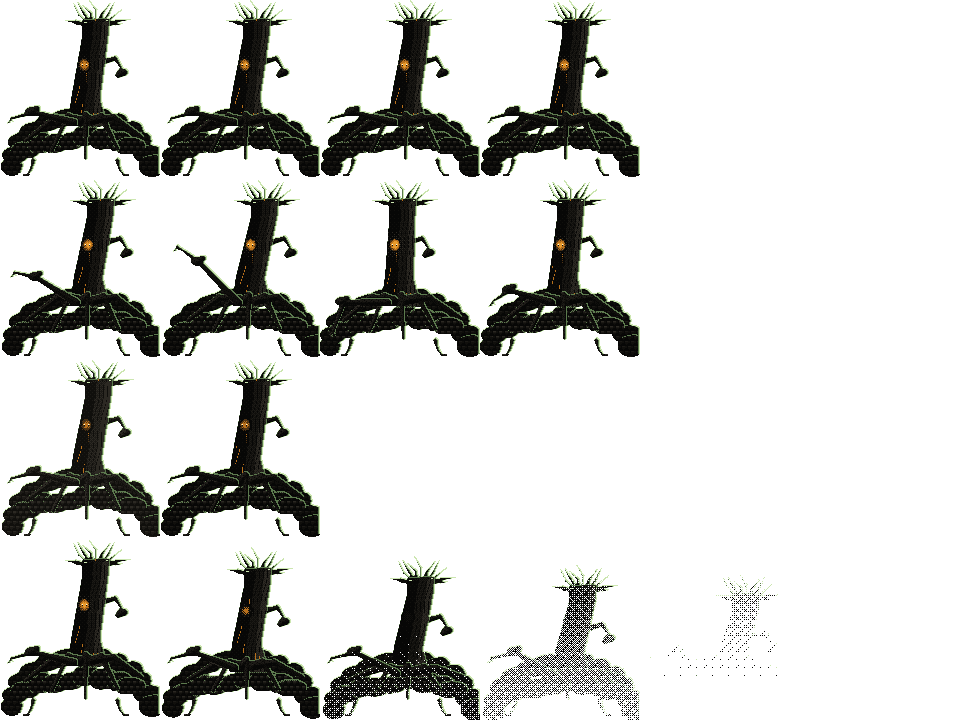
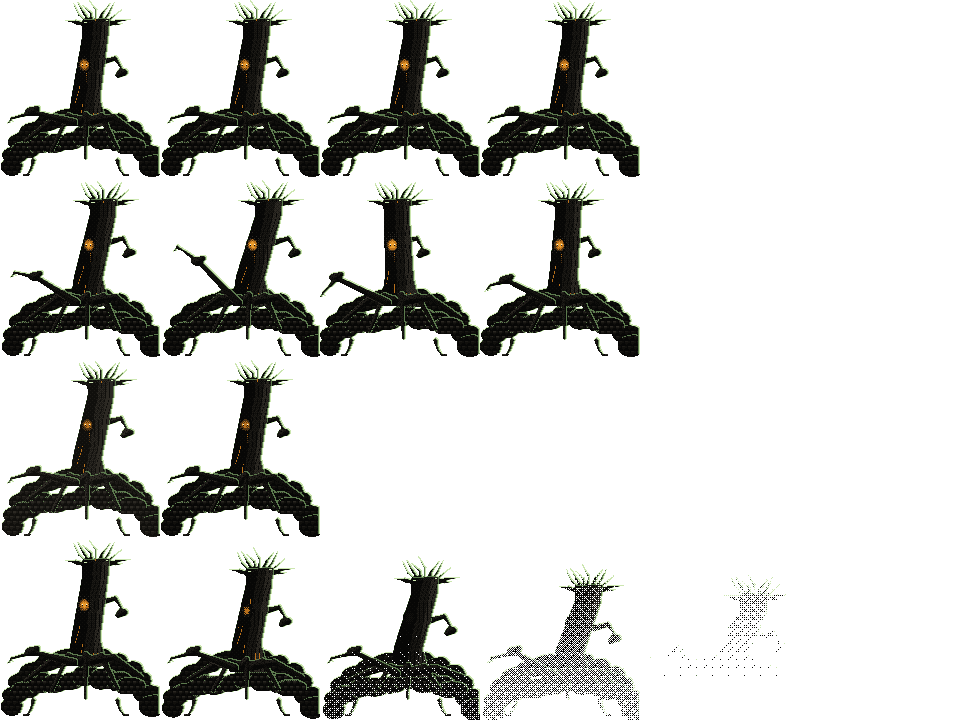
Zugabe: zweite Wächter Akt III (6), Note 4; alle 22 Biome der Akte I–IV haben zwei Wächter
Claude-Session: https://claude.ai/code/session_01TghvEfjLh3w7y1uAeKR46M

diff --git a/tools/sprites/gegner/menge.js b/tools/sprites/gegner/menge.js
@@ -1,0 +1,118 @@
+// Zweiter Wächter Station: Die Menge. Alle, die zur Eröffnung gekommen sind: Herren mit Zylinder und Melone,
+// Damen mit Glockenhut, ein Schirm, der Pressefotograf mit der Blitzpfanne hoch über den Köpfen, vorn einer mit der
+// großen Schere für das Band. Das Band ist nie durchgeschnitten worden. Sie stehen so dicht, dass sie ein Leib
+// geworden sind, und alle sehen zum Tunnel, mit dem Rücken zu dir. Nur einer in der Mitte hat sich umgedreht.
+'use strict';
+const LIB = require('../lib');
+const { h, innenKanten, randKraeftig } = require('./hilfe/w2a3');
+
+// Köpfe der Menge: x, Höhe des Kinns, Größe, Hut (z Zylinder, m Melone, g Glockenhut, 0 ohne), Reihe (0 hinten)
+const KOEPFE = [
+  [58, 92, 0.78, 'z', 0], [82, 88, 0.8, 'g', 0], [104, 86, 0.78, 'm', 0], [128, 90, 0.8, 'z', 0], [146, 98, 0.74, 'g', 0],
+  [46, 104, 0.92, 'm', 1], [70, 100, 0.95, 'z', 1], [94, 99, 0.96, 'u', 1], [118, 101, 0.94, 'g', 1], [140, 108, 0.9, 'm', 1],
+  [30, 116, 1.05, 'g', 2], [58, 114, 1.08, 'm', 2], [86, 113, 1.1, 'z', 2], [112, 115, 1.06, 'g', 2],
+];
+module.exports = {
+  id: 'menge', biom: 'station', zone: 'station', rang: 'waechter', w: 160, h: 180, fuss: [84, 176], kopf: [84, 8], rimBis: 172,
+  varianten: { menge: {} },
+  // Silhouetten-Probe (verworfen): die Menge ohne Schere, Blitz und Schirm, nur Köpfe und Hüte. Schwarz ein
+  // Hügel mit Buckeln (wie Kachelleger und Salzmann im Großen); erst die hochgereckten Arme geben ihr Spitzen.
+  proben: { probe_huegel: { ohneArme: true } },
+  bild(p, v, A) {
+    const { E, C, Pg, glied, r } = A;
+    const f = p.f, W = 160, H = 180, FY = 176;
+    let wog = [0, 1, 1, 0][f % 4], lean = 0, hebe = 0, stoss = 0, fall = 0, blitz = [0.85, 0.9, 1, 0.9][f % 4], dreh = 0;
+    if (!p.idle) wog = 0;
+    if (p.angriff) { lean = [3, 5, -8, -3][f]; hebe = [0.5, 1, 0, 0.2][f]; stoss = [0, 0, 1, 0.4][f]; blitz = [1, 1, 1.5, 1.1][f]; }
+    if (p.treffer) { lean = [3, 1][f]; blitz = 0.6; }
+    if (p.tod) { fall = r(p.q * 30); blitz = Math.max(0, 0.9 - p.q * 2); }
+    const L = r(lean), T = fall;
+    // Leib: alle Mäntel zusammen, ein Hügel bis zum Boden
+    const saumPts = []; for (let i = 0; i <= 10; i++) saumPts.push([156 - i * 15 + L * (i / 10), 156 + T * 0.6 + (i % 2) * 4 + (i % 3)]);
+    const leib = [Pg([...saumPts.slice(0, 1).map(([x]) => [158, 150 + T]), ...saumPts, [4 + L, 150 + T], [8 + L, 132 + T], [20 + L, 118 + T], [44 + L, 112 + T], [70 + L, 106 + T], [100 + L, 104 + T], [128 + L, 108 + T], [150 + L, 114 + T], [158, 130 + T]], null, { rd: 3 })];
+    // Beine unter den Mänteln: Hosen, Strümpfe, Schuhe, dicht an dicht
+    const beine = []; for (let i = 0; i < 12; i++) { const x = 10 + i * 12.6 + L * 0.5 + (h(i, 3) - 0.5) * 3, hint = i % 2, y0 = 152 + T * 0.6;
+      beine.push(C(x, y0, x - 1, FY - 2 - hint, 2.4 - hint * 0.4, 2, hint ? 'dunkel' : null), Pg([[x - 6, FY - 3 - hint], [x + 1, FY - 3 - hint], [x + 1, FY - hint], [x - 7, FY - hint]], hint ? 'dunkel' : null, { rd: 0.6 })); }
+    // Schultern als Wülste
+    const schultern = KOEPFE.map(([x, y, s, , rh]) => E(x + L + 2, y + 13 * s + T + (rh === 2 ? 2 : 0), 12 * s, 6 * s, rh < 2 ? 'dunkel' : null));
+    // Köpfe und Hüte; der in der Mitte vorn hat sich umgedreht (Gesicht zu dir)
+    const koepfe = KOEPFE.map(([x, y, s, hut, rh], i) => {
+      const X = x + L + (rh === 2 ? wog : rh === 1 ? -wog : 0), Y = y + T - (rh === 0 ? wog : 0);
+      const um = i === 12;
+      const kopf = E(X, Y, 6 * s, 7 * s, um ? 'haut' : null);
+      const formen = [kopf];
+      if (hut === 'z') formen.push(Pg([[X - 6 * s, Y - 4 * s], [X - 5 * s, Y - 17 * s], [X + 5 * s, Y - 17 * s], [X + 6 * s, Y - 4 * s]], 'dunkel', { rd: 0.6 }), C(X - 9 * s, Y - 4 * s, X + 9 * s, Y - 4 * s, 1.4 * s, 1.4 * s, 'dunkel'));
+      if (hut === 'm') formen.push(E(X, Y - 6 * s, 6.5 * s, 5 * s, 'dunkel'), C(X - 9 * s, Y - 3 * s, X + 8 * s, Y - 3 * s, 1.3 * s, 1.3 * s, 'dunkel'));
+      if (hut === 'g') formen.push(E(X + 0.5, Y - 4 * s, 7.5 * s, 6 * s, 'dunkel'), C(X - 7 * s, Y + 1 * s, X + 8 * s, Y + 1 * s, 1.6 * s, 1.6 * s, 'dunkel'));
+      return { X, Y, s, hut, rh, um, formen };
+    });
+    // Arme: vorn links die Schere, hinten rechts die Blitzpfanne, in der Mitte der Schirm
+    const arme = [], schere = [], blitzP = [], schirm = [];
+    if (!v.ohneArme && !(p.tod && f >= 3)) {
+      const sh = [32 + L, 122 + T], hd = [24 + L - stoss * 10 + hebe * 4, 60 + T - hebe * 12 + stoss * 30];
+      arme.push(...glied([sh, [20 + L - stoss * 6, 94 + T + stoss * 12], hd], 4, 3, null), E(hd[0], hd[1], 3.6, 3.2, 'haut'));
+      const auf = 0.35 + hebe * 0.3 - stoss * 0.3;
+      for (const sgn of [-1, 1]) { const a = -Math.PI / 2 - 0.15 + sgn * auf - stoss * 1.2; const ex = hd[0] + Math.cos(a) * 22, ey = hd[1] + Math.sin(a) * 22;
+        schere.push(C(hd[0], hd[1] - 1, ex, ey, 2.2, 0.8, null, { pf: 'flat' })); const ga = a + Math.PI; schere.push(E(hd[0] + Math.cos(ga + sgn * 0.6) * 6, hd[1] + Math.sin(ga + sgn * 0.6) * 6, 3, 3, null)); }
+      const bs = [128 + L, 104 + T], bh = [134 + L + wog, 30 + T - hebe * 6];
+      arme.push(...glied([bs, [140 + L, 70 + T], bh], 3.4, 2.6, 'dunkel'), E(bh[0], bh[1] + 1, 3, 3, 'haut'));
+      blitzP.push(C(bh[0], bh[1] - 2, bh[0], bh[1] - 8, 1, 1, null), C(bh[0] - 9, bh[1] - 9, bh[0] + 8, bh[1] - 9, 1.6, 1.6, null));
+      schirm.push(C(96 + L, 96 + T, 100 + L - wog, 40 + T, 1.2, 1.2, null), Pg([[98 + L, 92 + T], [94 + L, 72 + T], [101 + L - wog, 46 + T], [104 + L, 72 + T], [102 + L, 92 + T]], null, { rd: 0.8 }), C(96 + L, 96 + T, 93 + L, 100 + T, 1.2, 1, null));
+    }
+    // Das Band: quer vor der Menge, durchhängend, links von einer Hand gehalten, rechts an einem Ständer
+    const band = [];
+    if (!(p.tod && f >= 4)) { const pts = []; for (let i = 0; i <= 12; i++) { const q = i / 12, x = 6 + q * 150, y = 136 + T * 0.5 + Math.sin(q * Math.PI) * 6 + (p.angriff ? stoss * 4 * Math.sin(q * Math.PI) : 0); pts.push([x + L * (1 - q), y]); }
+      for (let i = 0; i < 12; i++) band.push(C(pts[i][0], pts[i][1], pts[i + 1][0], pts[i + 1][1], 1.8, 1.8, 'haut', { pf: 'flat' }));
+      band.push(C(152, 134 + T * 0.5, 152, FY, 1.4, 1.4, null), E(152, FY - 1, 5, 1.6, null)); }
+    const gruppen = [];
+    const BEINE = gruppen.push({ p: beine, k: 0.5, kante: true }) - 1;
+    const LEIB = gruppen.push({ p: leib, k: 0, kante: true }) - 1;
+    const KG = [];
+    [0, 1, 2].forEach(rh => {
+      gruppen.push({ p: schultern.filter((_, i) => KOEPFE[i][4] === rh), k: 2, kante: true, reihe: rh });
+      if (rh === 1) { if (schirm.length) gruppen.push({ p: schirm, k: 0.5, kante: true, schirm: true }); if (arme.length) gruppen.push({ p: arme.slice(3), k: 1, kante: true }); if (blitzP.length) gruppen.push({ p: blitzP, k: 0, kante: true, blitz: true }); }
+      koepfe.filter(k => k.rh === rh).forEach(k => KG.push(gruppen.push({ p: k.formen, k: 0.6, kante: true, kopf: k }) - 1));
+    });
+    const BAND = gruppen.push({ p: band, k: 0.5, kante: true }) - 1;
+    if (arme.length) { gruppen.push({ p: arme.slice(0, 3), k: 1, kante: true }); gruppen.push({ p: schere, k: 0, kante: true, schere: true }); }
+    gruppen.forEach(g => { g.anker = [L, T]; });
+    const { gid } = LIB.render(W, H, gruppen, LIB.palette('station'), { rimBis: 172 });
+    const augen = [];
+    const details = P => {
+      const B = (x, y) => LIB.bay(x - L, y - T);
+      const ist = (x, y, g) => x >= 0 && y >= 0 && x < W && y < H && gid[y * W + x] === g;
+      // Leib: Mäntel, Knopfreihen, Kragen; nach unten dunkler
+      for (let y = 100; y < H; y++) for (let x = 0; x < W; x++) { if (!ist(x, y, LEIB)) continue; const k = P.get(x, y); if (k < 1 || k > 4) continue;
+        let t = !ist(x, y + 2, LEIB) ? 1 : (B(x, y) < 0.3 - (y - 120) / 200 ? 3 : 2); const m = (x - L) % 26; if (m === 0) t = 1; else if (m === 1 && B(x, y) < 0.5) t = 3; if (m === 13 && y % 9 === 0 && y < 150) t = 'messing'; P.set(x, y, t); }
+      // Köpfe: von hinten das Haar, der Nacken bleich, die Ohren; der Umgedrehte zeigt sein Gesicht mit Augen
+      KG.forEach(gi => { const k = gruppen[gi].kopf;
+        for (let y = r(k.Y - 20 * k.s); y <= r(k.Y + 8 * k.s); y++) for (let x = r(k.X - 10 * k.s); x <= r(k.X + 10 * k.s); x++) {
+          if (!ist(x, y, gi)) continue; const c = P.get(x, y); if (c < 1 || c > 4) continue; const dx = x + 0.5 - k.X, dy = y + 0.5 - k.Y;
+          const imKopf = (dx / (6 * k.s)) ** 2 + (dy / (7 * k.s)) ** 2 < 1;
+          if (!imKopf) { P.set(x, y, (k.hut === 'z' && Math.abs(dy + 6 * k.s) < 1) ? 'email' : c <= 2 ? c : (B(x, y) < 0.3 ? 3 : 2)); continue; }
+          if (k.um) P.set(x, y, dy < -4 * k.s ? 2 : dx < -4 ? 3 : 'blass');
+          else P.set(x, y, dy > 3 * k.s && Math.abs(dx) < 3 * k.s ? (k.rh < 2 ? 3 : 'blass') : (dx > 4.5 * k.s && Math.abs(dy) < 2) ? 3 : (x + y) % 5 ? 1 : 2);
+        }
+        if (k.um && !(p.tod && f >= 1)) { const ex = r(k.X - 3), ey = r(k.Y - 1); P.set(ex, ey, 'kern'); P.set(ex + 4, ey, 'kern'); P.set(ex - 1, ey, 'glut'); P.set(ex + 5, ey, 'glut'); P.set(ex + 1, ey + 4, 2); P.set(ex + 2, ey + 4, 1); P.set(ex + 3, ey + 4, 2); augen.push([ex, ey], [ex + 4, ey]); P.glow(k.X, k.Y - 1, 9, 0.5, 'glutDim', 'k3'); }
+      });
+      // Schere: Stahl, Schneiden hell; Band: Seide, Falten; Schirm: Bespannung mit Rippen
+      gruppen.forEach((g, gi) => {
+        if (g.schere) for (let y = 0; y < H; y++) for (let x = 0; x < W; x++) if (ist(x, y, gi) && P.get(x, y) <= 4) P.set(x, y, (x + y) % 2 ? 'blass' : 3);
+        if (g.schirm) for (let y = 0; y < H; y++) for (let x = 0; x < W; x++) if (ist(x, y, gi) && P.get(x, y) <= 4) P.set(x, y, (x - L) % 3 === 0 ? 1 : 2);
+        if (g.blitz) for (let y = 0; y < H; y++) for (let x = 0; x < W; x++) if (ist(x, y, gi) && P.get(x, y) <= 4) P.set(x, y, 'messing');
+      });
+      for (let y = 120; y < H; y++) for (let x = 0; x < W; x++) if (ist(x, y, BAND) && P.get(x, y) <= 4) P.set(x, y, x > 148 ? 2 : (x + (y >> 1)) % 7 === 0 ? 2 : (!ist(x, y - 1, BAND) ? 'email' : (B(x, y) < 0.4 ? 'email' : 3)));
+      // Blitzpfanne: das Magnesium glimmt, beim Angriff zündet es
+      if (!v.ohneArme && blitz > 0.2 && !(p.tod && f >= 3)) { const bx = r(134 + L + wog), by = r(30 + T - hebe * 6 - 11);
+        // Pulver auf der Pfanne: ein flacher Haufen, glimmend; darüber ein Hauch Rauch in Randlicht
+        for (const [dy, w] of [[0, 7], [-1, 5], [-2, 3]]) for (let k = -w; k <= w; k++) P.set(bx + k, by + 1 + dy, Math.abs(k) < 2 && dy > -2 ? (blitz > 0.95 ? 'kern' : 'glut') : (Math.abs(k) > w - 2 && dy === 0 ? 'glutDim' : 'glut'));
+        P.glow(bx, by + 2, 8, 0.5, 'glutDim', 'k3');
+        if (!p.tod) for (let k = 0; k < 4; k++) { const x = bx - 1 + ((k + f) % 3) - 1, y = by - 4 - k * 2; if (!P.get(x, y)) P.set(x, y, 'r1'); }
+        if (blitz > 1.2) for (let k = 0; k < 14; k++) { const a = k / 14 * Math.PI * 2, rr = 9 + (k % 3) * 3, x = r(bx + Math.cos(a) * rr), y = r(by - 2 + Math.sin(a) * rr * 0.6); if (!P.get(x, y)) P.set(x, y, k % 2 ? 'r2' : 'glutDim'); }
+        augen.push([bx, by]); }
+      innenKanten(P, gid, gruppen, W, H, 'r1');
+      randKraeftig(P, W, H, { bis: 172 });
+    };
+    return { gruppen, details, augen };
+  },
+};

diff --git a/tools/sprites/gegner/griff.js b/tools/sprites/gegner/griff.js
@@ -40,7 +40,15 @@ module.exports = {
     // Finger: fünf oben, zwei Daumen außen; jeder drei Glieder, krumm beugt sie zur Handfläche
     const fingerP = [], kuppen = [];
     const DEF = [[-15, -29, -0.26, 22], [-8, -31, -0.1, 27], [0, -32, 0, 30], [8, -31, 0.1, 27], [15, -29, 0.26, 22], [-20, -12, -1.05, 21], [20, -12, 1.05, 21]];
-    DEF.forEach(([u0, w0, wink, len], i) => {
+    if (v.faust) {
+      // Faust von vorn: oben die Reihe der Knöchel, darunter die eingeschlagenen Finger, die Kuppen nach unten,
+      // quer davor die zwei Daumen von links und rechts (sie greifen ineinander)
+      for (let i = 0; i < 5; i++) { const u = -14 + i * 7, kn = rot(u, -30 + Math.abs(i - 2) * 1.2 - krumm * 0), mi = rot(u, -21), tip = rot(u + 0.5, -13);
+        const g = [E(kn[0], kn[1], 4.2 * S, 4.6 * S, 'haut'), C(kn[0], kn[1], mi[0], mi[1], 3.8 * S, 3.6 * S, 'haut'), C(mi[0], mi[1], tip[0], tip[1], 3.4 * S, 3 * S, 'haut')];
+        fingerP.push({ i, g, pts: [kn, kn, mi, tip], daumen: false, faust: true }); kuppen.push(tip); }
+      for (const [i, sg] of [[5, -1], [6, 1]]) { const a0 = rot(sg * 20, -8), a1 = rot(sg * 10, -9), a2 = rot(sg * 1, -7);
+        fingerP.push({ i, g: glied([a0, a1, a2], 4.4 * S, 3.2 * S, 'haut'), pts: [a0, a0, a1, a2], daumen: false, vorn: true }); kuppen.push(a2); }
+    } else DEF.forEach(([u0, w0, wink, len], i) => {
       const daumen = i >= 5, seite = u0 < 0 ? -1 : 1;
       let [px, py] = rot(u0, w0); let ang = ua + wink + (daumen ? 0 : (h(i, 1) - 0.5) * 0.12); const pts = [[px, py]];
       for (let k = 0; k < 3; k++) {
@@ -64,7 +72,8 @@ module.exports = {
     const FING = [];
     fingerP.filter(x => x.daumen).forEach(x => FING.push(gruppen.push({ p: x.g, k: 1, kante: true, finger: x }) - 1));
     const HAND = gruppen.push({ p: hand, k: 0, kante: true }) - 1;
-    fingerP.filter(x => !x.daumen).forEach(x => FING.push(gruppen.push({ p: x.g, k: 1, kante: true, finger: x }) - 1));
+    fingerP.filter(x => !x.daumen && !x.vorn).forEach(x => FING.push(gruppen.push({ p: x.g, k: 1, kante: true, finger: x }) - 1));
+    fingerP.filter(x => x.vorn).forEach(x => FING.push(gruppen.push({ p: x.g, k: 1, kante: true, finger: x }) - 1));
     gruppen.forEach((g, i) => { g.anker = i <= WASSER ? [0, 0] : [0, sink]; });
     const { gid } = LIB.render(W, H, gruppen, LIB.palette('gezeitenwerk_bronze'), { rimBis: 168 });
     const augen = [];
@@ -88,7 +97,9 @@ module.exports = {
       FING.forEach(gi => { const fp = gruppen[gi].finger;
         for (let y = 0; y < H; y++) for (let x = 0; x < W; x++) { if (!ist(x, y, gi)) continue; const k = P.get(x, y); if (k < 1 || k > 4) continue;
           let nah = 1e9, seg = 0; for (let s2 = 1; s2 < 3; s2++) { const d = Math.hypot(x - fp.pts[s2][0], y - fp.pts[s2][1]); if (d < nah) { nah = d; seg = s2; } }
-          P.set(x, y, nah < 1.6 ? 1 : (B(x, y) < 0.35 ? 3 : 2)); } });
+          if (fp.faust || fp.vorn) { const l = gid[y * W + x - 1], o = gid[(y - 1) * W + x]; const naht = (l !== gi && FING.includes(l)) || (o !== gi && FING.includes(o) && fp.vorn);
+            P.set(x, y, naht ? 1 : (o !== gi ? 4 : (B(x, y) < 0.3 ? 3 : 2))); }
+          else P.set(x, y, nah < 1.6 ? 1 : (B(x, y) < 0.35 ? 3 : 2)); } });
       kuppen.forEach(([x, y], i) => { if (glueh > 0.25 && !(p.tod && f >= 2)) { P.set(x, y, i === 2 || i === 5 ? 'kern' : 'glut'); P.set(x + 1, y, 'glutDim'); if (i === 2 || i === 5) augen.push([r(x), r(y)]); } });
       if (glueh > 0.3) { const [cx, cy] = rot(-2, -16); P.glow(cx, cy, 14 * glueh, 0.45, 'glutDim', 'k3'); P.set(cx, cy, glueh > 0.9 ? 'kern' : 'glut'); augen.push([r(cx), r(cy)]); }
       // Unterarm: Sehnen, Grünspanflecken, nass am Wasser

diff --git a/tools/sprites/gegner/kronengaenger.js b/tools/sprites/gegner/kronengaenger.js
@@ -27,7 +27,7 @@ function kuppel(p, v, A) {
   const zehen = [];
   for (const [x, d] of [[34, -1], [118, 1]]) { const s0 = [x + LX, 160], e = [x + LX + d * 6, FY]; zehen.push(...glied([s0, [x + LX + d * 2, 168], e], 2.6, 1.1, null), C(e[0], e[1], e[0] + d * 5, e[1], 1, 0.7, null)); }
   // Stamm: steht auf der Kuppel, leicht schräg; oben die Abrissstelle mit Wurzeln
-  const gx = 86 + lean * 0.5 + wipp, gy = 118 + fall * 0.6, sx = 96 + lean + wipp * 2 + sw, sy = 22 + fall;
+  const gx = 86 + lean * 0.5 + wipp, gy = 118 + fall * 0.6, sx = 96 + lean * 1.8 + wipp * 2 + sw, sy = 22 + fall;
   const stamm = [Pg([[gx - 16, gy + 6], [gx - 12, gy - 22], [sx - 11, sy + 12], [sx - 12, sy], [sx + 12, sy - 2], [sx + 11, sy + 14], [gx + 13, gy - 20], [gx + 19, gy + 6]], null, { rd: 2.5 })];
   const wurzeln = [];
   for (let i = 0; i < 11; i++) {
@@ -44,7 +44,7 @@ function kuppel(p, v, A) {
     aeste.push(...glied([[gx + dir * 6, gy + 2], [mx, my], [ex + LX, ey]], w, 2, null));
   }
   // Greifast vorn links: holt aus (hebe) und schlägt nach vorn (stoss)
-  const g0 = [gx - 12, gy + 4], gk = [34 + LX - stoss * 8 + hebe * 4, 112 - hebe * 30 + stoss * 10], ge = [12 + stoss * 2 + hebe * 6, 118 - hebe * 52 + stoss * 32];
+  const g0 = [gx - 12, gy + 4], gk = [34 + LX - stoss * 14 + hebe * 4, 112 - hebe * 30 - stoss * 14], ge = [12 - stoss * 8 + hebe * 6, 118 - hebe * 52 - stoss * 6];
   const greif = [...glied([g0, gk, ge], 4.4, 1.4, null)]; for (let j = 0; j < 3; j++) greif.push(C(ge[0], ge[1], ge[0] - 5 + j * 3, ge[1] + 6 - j, 1, 0.6, null));
   greif.push(E(gk[0] - 2, gk[1] - 1, 7, 5, null), E(gk[0] + 3, gk[1] - 4, 4.5, 3.5, null));
   // Harzklumpen im Stamm: ein Astloch, darin Harz mit zwei Augen

diff --git a/docs/auftrag-2/biome/salz-waechter2.md b/docs/auftrag-2/biome/salz-waechter2.md
@@ -1,0 +1,28 @@
+# Salzstollen (`salz`) · Zweiter Wächter: Die Eingesalzene (`eingesalzene`)
+
+Zugabe zu Auftrag 2. Daten im Ergänzungspaket `prototype/data/biome/salz_plus.json` (`waechter_dazu`, Gegner unter `foes`), Sprite `tools/sprites/gegner/eingesalzene.js` (Varianten `eingesalzene` und `eingesalzene_p2`, Hilfen in `tools/sprites/gegner/hilfe/w2a3.js`), Zone `tools/sprites/zonen/salz_sole.json`. Der Seed wählt je Run zwischen dem Wurm im Salz und der Eingesalzenen; die Wächter-Szene bleibt dieselbe. Alles per Skript gezeichnet (`quelle: skript`).
+
+## Idee
+
+- **Wer:** eine Salzsiederin aus der Zeit, bevor die Römer kamen. Sie hat sich in die Siedepfanne gesetzt, damit sie bleibt, und sie ist geblieben.
+- **Das falsche Detail:** Das Salz ist an ihr in Würfeln gewachsen, alle gleich glatt und gleich rechtwinklig, als Treppe hinter ihr bis unter die Decke. Unter der Pfanne brennt das Siedefeuer bis heute, und aus ihrer offenen Hand rieselt Salz, das nie weniger wird.
+- **Silhouette:** eine kniende Frau in einer flachen Pfanne, der Arm weit nach vorn, hinter ihr eine Treppe aus Würfeln, die nach rechts hinauf bis an den oberen Rand steigt; auf dem Kopf ein gekippter Würfel als Kapuze.
+- **Proben:** sie als Salzsäule, die Würfel nur senkrecht über ihr (schwarz eine Säule mit Buckeln, nah an Gewicht und Kreuzgangwächter und am bekannten Bild). Genommen: die Treppe.
+- **Anders als der Wurm:** Der Wurm ist ein Bogen, der aus dem Boden kommt, schlägt einfach hart und wechselt jeden Zug die Schwachstelle. Die Eingesalzene **stört die Hand**: Kniff `einfrieren` (jeden Zug ist eine Karte eingesalzen und unspielbar), Besonderheit `phasen` bei 50 %: Die Kruste springt, die Fugen zwischen den Würfeln glühen, abgeplatzte Würfel liegen in der Pfanne (`eingesalzene_p2`), die Schwachstelle wechselt von Wasser auf Blut und das Muster wird härter. Erst Geduld mit Blockrunden, dann ein Wettlauf.
+
+## Kampf
+
+- **Werte:** 96 Leben, Schwachstelle **Wasser** (Salz löst sich), in Phase 2 **Blut** (darunter ist sie noch warm). Muster Block 14, 13, 3 × 5, Block 12, 18; Phase 2: 14, 3 × 6, Stärke +3, 20.
+- **Stimme:** `opfernde`. **Beute:** Der Würfel aus dem Berg (`salzwuerfel`).
+- **Licht:** eigene Zone `salz_sole`: die Körperstufen der Salzstollen, Randlicht **kalt türkis** (Sole, ein Ton, den die sepiafarbene Szene nicht hat). Die Deckflächen der Würfel fangen das Gegenlicht von oben in derselben Stufe. Innere Lichter: die Augen hinter dem Salz und das Siedefeuer zwischen den Steinen, in Phase 2 die glühenden Fugen.
+- **biom-test (20 Seeds):** Wurm 17/20 (85 %), Eingesalzene 16/20 (80 %). Im Mittel nimmt sie dem Autospieler 12 Leben je Kampf (Wurm 3), einmal gewinnt sie.
+
+## Noten (Bewertungsbogen 06-ki-bilder.md Abschnitt 5)
+
+| Bild | S | L | P | K | B | Sp | Gesamt | Begründung |
+|---|---|---|---|---|---|---|---|---|
+| Die Eingesalzene (`eingesalzene`) | 5 | 4 | 4 | 4 | 5 | 5 | **4** | Die Würfeltreppe ist eine Form, die es im Spiel nicht gibt, und liest sich als Kristall, nicht als Mauer (jeder Würfel mit Deckfläche, Licht- und Schattenseite). Schwächen: Das Dither der Deckflächen ist im Großen etwas unruhig, das Gesicht unter dem Würfel ist klein und dunkel. |
+| Phase 2 (`eingesalzene_p2`) | 4 | 4 | 4 | 5 | 5 | 5 | **4** | Die glühenden Fugen zeigen sofort, dass die Kruste gesprungen ist; die Treppe ist niedriger, Würfel liegen in der Pfanne. Die Silhouette ändert sich nur oben. |
+| Im Spiel (Wächter-Szene) | | | | | | 5 | **4** | Dunkel vor der hellen Salzhalle, das türkise Randlicht trennt sie von den weißen Säulen; die Siedeglut unten ist der wärmste Punkt der Szene. |
+
+Bilder: [Spiel](../bilder/Zugabe/waechter2/salz-eingesalzene.png), [Spiel Phase 2](../bilder/Zugabe/waechter2/salz-eingesalzene-phase2.png), [Kontaktbogen](../bilder/Zugabe/waechter2/bogen-a3.png), [Silhouetten gegen alle](../bilder/Zugabe/waechter2/silhouetten-gegen-alle-a3.png).

diff --git a/docs/auftrag-2/biome/stadt-waechter2.md b/docs/auftrag-2/biome/stadt-waechter2.md
@@ -1,0 +1,27 @@
+# Namenlose Stadt (`stadt`) · Zweiter Wächter: Der Getragene (`getragene`)
+
+Zugabe zu Auftrag 2. Daten im Ergänzungspaket `prototype/data/biome/stadt_plus.json` (`waechter_dazu`, Gegner unter `foes`), Sprite `tools/sprites/gegner/getragene.js` (Hilfen in `tools/sprites/gegner/hilfe/w2a3.js`), Zone `tools/sprites/zonen/stadt_phosphor.json`. Der Seed wählt je Run zwischen dem Wind, der Gestalt hat, und dem Getragenen; die Wächter-Szene bleibt dieselbe. Alles per Skript gezeichnet (`quelle: skript`).
+
+## Idee
+
+- **Wer:** einer der Erbauer, der nicht gestorben ist. Durch die niedrigen Gänge zieht noch sein Leichenzug: vier Träger in Binden, mit den langen flachen Schädeln der Erbauer, tragen die Lade auf zwei Stangen.
+- **Das falsche Detail:** Die Träger sind tot, der in der Lade ist es nicht. Der Deckel steht einen Spalt offen, darin ist Licht, und aus dem Spalt kommen Finger, zu viele und zu lang, und haken sich über den Rand. Die Stirnseite der Lade ist sein Gesicht aus Stein, mit Schnauze, und die Augen darin leuchten.
+- **Silhouette:** ein langer Kasten mit Satteldeckel hoch auf zwei Stangen, vorn der Steinkopf mit Schnauze, darunter acht dünne, gebeugte Beine im Schritt; beim Angriff klappt der Deckel auf und ein Arm greift heraus.
+- **Proben:** die Lade allein, aufrecht wie ein Sarg (schwarz ein Brett mit Kopf, zu nah an Relief und Bote). Genommen: der Zug mit Trägern.
+- **Anders als der Wind:** Die Windgestalt ist eine hohle, dünne Gestalt, die allein kämpft und nur zuschlägt. Der Getragene **ruft und schützt**: Besonderheit `ruft` (alle 3 Züge löst sich ein Träger aus dem Zug: eine Erbauer-Mumie kommt dazu), Kniff `schuetzer` (die Träger decken jeden, der neben der Lade geht, mit 5 Block). Gegen ihn braucht man Flächenschaden oder eine klare Zielwahl.
+
+## Kampf
+
+- **Werte:** 76 Leben, Schwachstelle **Feuer** (Binden und trockenes Holz). Muster 11, Block 10, 3 × 5, Stärke +2, 16.
+- **Stimme:** `chor` (ein Zug, viele Kehlen). **Beute:** Das schräge Lot (`schraeges_lot`).
+- **Licht:** eigene Zone `stadt_phosphor`: die Körperstufen der Stadt, Randlicht **phosphorgrün** (das Licht aus dem Abgrund hinter dem Messingtor; die rote Szene hat es nirgends). Innere Lichter: der Spalt unter dem Deckel (gelb), die Augen im Steinkopf, ein Funke in jedem Trägerschädel. Zusatzfarbe `binde` für die Wicklungen.
+- **biom-test (20 Seeds):** Wind 14/20 (70 %), Getragener 14/20 (70 %). Die Niederlagen fallen in beiden Fällen in den normalen Kämpfen davor; im Wächterkampf verliert der Autospieler im Mittel 2–3 Leben (Wind 2), braucht aber 5 statt 2–3 Züge.
+
+## Noten (Bewertungsbogen 06-ki-bilder.md Abschnitt 5)
+
+| Bild | S | L | P | K | B | Sp | Gesamt | Begründung |
+|---|---|---|---|---|---|---|---|---|
+| Der Getragene (`getragene`) | 4 | 4 | 4 | 4 | 4 | 5 | **4** | Kasten auf Trägerbeinen mit Steinschnauze ist eigen; die Finger im Lichtspalt sind das stärkste Detail. Schwächen: Schwarz verwandt mit der Neununddreißigsten (beides Masse auf vielen Beinen, aber dort kurz und mit Feldzeichen), die Schädel der Träger sind klein, die hinteren Träger sind dunkle Pfosten. |
+| Im Spiel (Wächter-Szene) | | | | | | 5 | **4** | Das grüne Randlicht steht klar vor dem roten Fries; der Zug füllt die Mitte, ohne die Kreisform hinten zu verdecken. |
+
+Bilder: [Spiel](../bilder/Zugabe/waechter2/stadt-getragene.png), [Kontaktbogen](../bilder/Zugabe/waechter2/bogen-a3.png), [Silhouetten gegen alle](../bilder/Zugabe/waechter2/silhouetten-gegen-alle-a3.png).

diff --git a/docs/auftrag-2/fortschritt.md b/docs/auftrag-2/fortschritt.md
@@ -16,7 +16,7 @@ Wird vom Agenten geführt. Neueste Einträge oben in jedem Abschnitt.
 | M7 Biome Akt III bis V | fertig | Wald, Gezeitenwerk (Akt III), Walkathedrale, Glasmeer (Akt IV), Ufer unten, Pforte neu, Finale neu (Akt V); neue Gegner Salz, Stadt, Eis; alle Noten 4. Kern: Kniffe teurer/kopie/takt/voraus/verborgen, Pendel, Tausch-/Leih-/Spiegel-Krämer, Vorgänger, Ergänzungspakete |
 | M8 Ereignisse und Balance | fertig | ≥5 Ereignisse je Biom, 15 biomübergreifende, Test aller Wahlen; Builds 44–72 % (Ø 59 %), generischer Bot 65 %, kein Akt über 35 % der Niederlagen; Kampf Ø 4,1–4,5 Züge |
 | M9 Abschluss | fertig | Geklickter Run (40 Stationen), Galerie und Artboard erweitert, Bericht unten |
-| Zugabe | läuft | Punkte 1–4 der Liste erledigt, dazu drei weitere Biome: Waisenhaus am Deich (II), Funkstation am Pol (IV), Die Waage am Grund (V, mit Elite und Finale-Szene). Dazu die Station, die nie eröffnet wurde (III). Jetzt 25 Biome, alle Note 4; alle 157 Ereignisse mit Bild; 8 Builds 40–62 %; Akt V mit Ereignis-Knoten |
+| Zugabe | läuft | Punkte 1–4 der Liste erledigt, dazu drei weitere Biome: Waisenhaus am Deich (II), Funkstation am Pol (IV), Die Waage am Grund (V, mit Elite und Finale-Szene). Dazu die Station, die nie eröffnet wurde (III). Jetzt 25 Biome, alle Note 4, jedes Biom der Akte I–IV mit zwei Wächtern (22 neue Wächter); alle 157 Ereignisse mit Bild; 8 Builds 40–62 %; Akt V mit Ereignis-Knoten |
 
 ## Einträge je Meilenstein
 
@@ -219,6 +219,7 @@ Allgemeiner Autospieler 30 Seeds: 47 %. **Korrigierte Ausreißer:** Brackwasser 
 | Hintergrund Funkstation (Mast, Funkraum, Eisloch, Senderaum) + 6 Ereignisbilder | Funkstation | 4 (Funkraum jetzt karger, dafür ruhig hinter den Gegnern) | [Zugabe](bilder/Zugabe/funkstation/hintergrund-varianten.png) |
 | Zweite Wächter Akt I: Galionsfigur (Hafen), Moorpferd (Moor), Der Fang (Fabrik), Badekarren (Kurhaus), Oberkellner (Nachtzug), Nebelhorn (Leuchtturm) (neu) | Akt I | 4 (selbst geprüft; stark: Nebelhorn, Badekarren, Moorpferd; knapp: Fang, dunkler Leib) | [Zugabe](bilder/Zugabe/waechter2/bogen-a1.png) |
 | Zweite Wächter Akt II: Der Prediger (Kapelle), Adler vom Lesepult (Kloster), Der Ungeheilte (Grotte), Das Tretrad (Glockengießerei), Fotograf von 1913 (Waisenhaus) (neu) | Akt II | 4 (stark: Tretrad vor dem Ofen, Ungeheilter; knapp: Korb des Predigers dunkel) | [Zugabe](bilder/Zugabe/waechter2/bogen-a2.png) |
+| Zweite Wächter Akt III: Die Eingesalzene (Salz), Der Getragene (Stadt), Der Kronengänger (Wald), Der Griff (Gezeitenwerk), Die Neununddreißigste (Ziegelgruben), Die Menge (Station) (neu) | Akt III | 4 (stark: Griff, Menge, Eingesalzene; knapp: Kronengänger, die Idee „geht auf der Krone“ liest sich nicht sofort) | [Zugabe](bilder/Zugabe/waechter2/bogen-a3.png) |
 | Zweite Wächter Akt IV: Die Welle (Eis), Das Kalb (Walkathedrale), Lichtqualle (Glasmeer), Mann im Mond (Mond), Kastendrachen (Funkstation) (neu) | Akt IV | 4 (stark: Welle, Kalb, Qualle; knapp: Kastendrachen vor dem Fenster) | [Zugabe](bilder/Zugabe/waechter2/bogen-a4.png) |
 | Station: Sperrenschaffner, Wartende, Streckengänger, Kachelleger (neu) | Station | 4 (rosa-rotes Randlicht vor kalten Kacheln, im Kampf klar) | [Zugabe](bilder/Zugabe/station/im-spiel-kampf-alle-vier-v1.png) |
 | Der Zug, der einfährt, zwei Phasen, Türen schließen = unverwundbar (Wächter, neu) | Station | 4 (vor ruhigem Tunnellicht; Phase 2 mit Armen aus den Türen stark) | [Zugabe](bilder/Zugabe/station/im-spiel-waechter-p2.png) |

diff --git a/docs/auftrag-2/biome/ziegelgruben.md b/docs/auftrag-2/biome/ziegelgruben.md
@@ -177,3 +177,20 @@ Nichts unter 4. Überarbeitet wurden unterwegs: Ziegelträger (Stapel zuerst aus
 - Variante b der Normalen unterscheidet sich je nur in einem Teil (Probe, Stapelform, Block, Schwanz).
 - Die Lehmgrube bleibt die schwächste Szene; der Ringofen braucht über 400 ms zum Aufbau (einmal pro Knoten).
 - Biom-Test 82 % statt Ziel 60–80 %, der Wächter hat noch keinen Run beendet.
+
+## Zweiter Wächter: Die Neununddreißigste (`neununddreissigste`)
+
+Zugabe. Eingetragen als `biom.waechter_alt` in `prototype/data/biome/ziegelgruben.json`; der Seed wählt je Run zwischen Brennofen und Neununddreißigster, die Szene vor der Feuertür bleibt dieselbe. Sprite `tools/sprites/gegner/neununddreissigste.js`, Zone `tools/sprites/zonen/ziegelgruben_lehm.json`.
+
+- **Idee:** Die Legion, die es nie gab, selbst. Sie steht in der Schildkröte: oben die Dachschilde schräg übereinander, an der Seite eine Wand aus hohen Schilden, unten nur Füße in Sandalen aus Lehm. **Das falsche Detail:** Die Schilde sind gebrannte Ziegel mit dem Stempel der Legion, und in jedem ist derselbe Fingerabdruck; durch den Spalt zwischen Dach und Wand sehen Augen, und Lanzen kommen heraus. Oben ragt das Feldzeichen mit Scheiben, an der Spitze ein kleiner Ofen, in dem die Glut nicht ausgeht. **Silhouette:** eine hohe Kuppel aus Schilden auf vielen kurzen Füßen, oben senkrecht die Stange mit dem Ofen, vorn drei Lanzen. **Proben:** als flacher, langer Kasten auf Beinen (schwarz zu nah am Getragenen und am Lehmhund), genommen: hohe Kuppel mit Feldzeichen.
+- **Anders als der Brennofen:** Der Brennofen ist ein Ofen, der Brand frisst (`loeschen`) und in Phase 2 hart zuschlägt. Die Neununddreißigste **verteidigt und ruft**: Kniff `dornen 2` (Lanzen zwischen den Schilden), ein Musterschritt `unverw` (Schildkröte: in diesem Zug nicht zu treffen, die Bühne zeigt es), Besonderheit `ruft` (alle 4 Züge tritt ein Stempel aus dem Glied). Mehrfachtreffer werden teuer; große Einzelschläge in den offenen Zügen.
+- **Werte:** 80 Leben, Schwachstelle **Eisen**, Muster 3 × 4, Block 14 (unverwundbar), 12, Stärke +2, 4 × 3. Stimme `chor`, Beute Legionsstempel.
+- **Licht:** Randlicht **kühles Lehmblau** (`ziegelgruben_lehm`), ein Ton, den die rote Ofenhalle nicht hat. Innere Lichter: der kleine Ofen im Feldzeichen, die Augen im Schildspalt; der Stempel jedes Wandschilds in Ziegelrot.
+- **biom-test (20 Seeds):** Brennofen 17/20 (85 %), Neununddreißigste 15/20 (75 %); sie gewinnt dreimal (Brennofen einmal), im Mittel 25 Leben je Kampf. Abgestimmt über Dornen und Ruftakt: Dornen 3 oder Ruf alle 3 Züge ergaben 60–65 %, Ruf alle 4 mit Dornen 2 ergibt 75 %.
+
+| Bild | S | L | P | K | B | Sp | Gesamt | Begründung |
+|---|---|---|---|---|---|---|---|---|
+| Die Neununddreißigste (`neununddreissigste`) | 4 | 4 | 4 | 4 | 5 | 5 | **4** | Kuppel aus Schilden, Augen im Spalt, Feldzeichen mit glühendem Ofen: die Schildkröte liest sich. Schwächen: Die Dachschilde sind ein dichtes Muster, die Legionäre zeigen sich nur als Füße und Augen, schwarz verwandt mit dem Getragenen. |
+| Im Spiel (vor der Feuertür) | | | | | | 5 | **4** | Das blaue Randlicht hebt die dunkle Kuppel vom grauen Torbogen und den roten Ziegeln ab; das Feldzeichen ragt in die helle Öffnung. |
+
+Bilder: [Spiel](../bilder/Zugabe/waechter2/ziegelgruben-neununddreissigste.png), [Kontaktbogen](../bilder/Zugabe/waechter2/bogen-a3.png).

diff --git a/docs/auftrag-2/biome/gezeitenwerk.md b/docs/auftrag-2/biome/gezeitenwerk.md
@@ -181,3 +181,21 @@ Nichts unter 4. Überarbeitet wurden unterwegs: Ölerin (Block mit Stock → sch
 - Der Kern zeigt die Absicht „lädt“ (Ansage des Gewichts) als „↑ +0“; das betrifft alle `ansage`-Gegner, nicht nur dieses Paket.
 - Das Hauptrad rückt im Hintergrund nicht sichtbar weiter (die Szene ist bis auf Wasser, Licht und Partikel statisch).
 - Item-Icons sind Platzhalter.
+
+## Zweiter Wächter: Der Griff (`griff`)
+
+Zugabe. Eingetragen als `biom.waechter_alt` in `prototype/data/biome/gezeitenwerk.json`; der Seed wählt je Run zwischen Regulator und Griff, die Szene bleibt dieselbe. Sprite `tools/sprites/gegner/griff.js` (Varianten `griff`, `griff_p2`), Zone `tools/sprites/zonen/gezeitenwerk_bronze.json`.
+
+- **Idee:** Die Hand, für die die Maschine gebaut ist. Sie steigt aus einem Kanal, der Unterarm verschwindet im Wasser, und niemand weiß, wie lang er ist. **Das falsche Detail:** sieben Finger, fünf oben und zwei Daumen, links und rechts, gleich lang; in den Kuppen und in den Linien der Handfläche leuchtendes Öl, wie in den Abdrücken an der Maschine. Um das Gelenk eine Bronzemanschette mit sieben Zapfen. Kein Gesicht (Zeitschicht vor dem Menschen). **Silhouette:** eine offene, aufgerichtete Hand mit sieben Fingern über einem flachen Becken. **Proben:** die Hand flach auf den Fingern laufend (schwarz eine Spinne, wie Netzflickerin und Zahnradwärter), genommen: aufrecht.
+- **Anders als der Regulator:** Der Regulator pendelt, wächst und wechselt die Schwachstelle mit dem Takt. Der Griff **macht nach**: Kniff `kopie` (deine zuletzt gespielte Karte trifft dich oder schützt ihn), Besonderheit `phasen` bei 50 %: Die Hand schließt sich zur Faust (`griff_p2`), Schwachstelle Blut → Eisen, harte Schläge. Wer große Angriffe spielt, bekommt sie zurück; Block und kleine Karten vor der Faust, dann schnell.
+- **Werte:** 96 Leben, Muster 10, Block 12, 3 × 4, 14, Stärke +2; Phase 2: 18, 3 × 6, Block 10, 24. Stimme `lotse`, Beute Siebenfinger-Schlüssel.
+- **Licht:** Randlicht **blanke Bronze** (`gezeitenwerk_bronze`), das einzige Warme der grünen Maschine: Wo die Hand greift, ist die Bronze blank. Innere Lichter: Öl in Kuppen und Handlinien, der Glanz in der Handmitte.
+- **biom-test (20 Seeds):** Regulator 19/20 (95 %), Griff 18/20 (90 %); der Griff nimmt im Mittel 20 Leben je Kampf (Regulator 4) und gewinnt zweimal. Der Akt ist für den Autospieler leicht, weil die normalen Kämpfe kaum Leben kosten.
+
+| Bild | S | L | P | K | B | Sp | Gesamt | Begründung |
+|---|---|---|---|---|---|---|---|---|
+| Der Griff (`griff`) | 5 | 5 | 4 | 5 | 5 | 5 | **4** | Die offene Hand mit sieben Fingern liest man in einer Sekunde, das Bronze-Randlicht trennt sie vom Grün, die glühenden Linien sind das falsche Detail. Schwäche: Die Grünspanflecken am Unterarm sind etwas fleckig. |
+| Phase 2 (`griff_p2`) | 4 | 4 | 4 | 4 | 5 | 5 | **4** | Faust von vorn mit Knöchelreihe und den zwei Daumen quer davor; erste Fassung (gekrümmte Finger) las sich als Klumpen und wurde neu gebaut. Die Fugen zwischen den Fingern sind fein. |
+| Im Spiel | | | | | | 5 | **4** | Steht vor dem hellen Zulauf in der Mitte der Szene, groß und klar. |
+
+Bilder: [Spiel](../bilder/Zugabe/waechter2/gezeitenwerk-griff.png), [Spiel Phase 2](../bilder/Zugabe/waechter2/gezeitenwerk-griff-phase2.png), [Kontaktbogen](../bilder/Zugabe/waechter2/bogen-a3.png).

diff --git a/docs/auftrag-2/biome/wald.md b/docs/auftrag-2/biome/wald.md
@@ -176,3 +176,20 @@ Nichts unter 4. Überarbeitet wurden unterwegs: Holzfäller (Nackenschirm las si
 - Die Absicht des Holzfällers während des Ladens zeigt der Kern als „+0“.
 - Item-Icons sind Platzhalter.
 - Viele dünne Elemente (Geweihstränge, Wurzeln, Rippen) tragen volles Randlicht; das Bild ist dadurch etwas unruhiger als bei den Favoriten.
+
+## Zweiter Wächter: Der Kronengänger (`kronengaenger`)
+
+Zugabe. Eingetragen als `biom.waechter_alt` in `prototype/data/biome/wald.json`; der Seed wählt je Run zwischen Wurzelstock und Kronengänger, die Szene im Wurzelgewölbe bleibt dieselbe. Sprite `tools/sprites/gegner/kronengaenger.js` (Hilfen `hilfe/w2a3.js`), Zone `tools/sprites/zonen/wald_tiefe.json`.
+
+- **Idee:** Ein Baum aus diesem Wald, dessen Krone den Boden erreicht hat. Er hat sich oben von der Decke gerissen (die Wurzeln stehen zerfetzt in die Luft, an der Abrissstelle die Jahresringe, der äußere hell) und geht jetzt auf seiner Krone: eine Kuppel aus Steinlaub, über die die Hauptäste vom Stamm nach unten laufen, vorn ein Ast, der greift. **Das falsche Detail:** In einem Astloch sitzt ein Klumpen Harz, und in dem Harz sind zwei Augen eingeschlossen, die offen sind. **Silhouette:** ein schräger Stamm mit Wurzelkranz oben auf einer breiten, buckligen Laubkuppel, ein Greifast vorn links. **Proben:** der Stamm auf sieben Ästen mit Knien (schwarz ein Weberknecht mit Turm, man sah keinen Baum mehr), genommen: die Kuppel. 
+- **Anders als der Wurzelstock:** Der Wurzelstock hängt, wächst jeden Zug (`waechst`) und schlägt mit jeder Phase härter. Der Kronengänger steht, **verklebt die Hand** (Kniff `verstopfen`: jeden Zug eine unspielbare Karte „Harztropfen“ mit dem Harzklumpen-Bild in der Hand) und schlägt mit vielen kleinen Treffern (4 × 6, 6 × 4). Besonderheit `schwach_wechsel` Feuer ↔ Eisen: einmal trifft man Holz, einmal Stein.
+- **Werte:** 108 Leben, Muster 4 × 6, Block 14, 21, 6 × 4, Stärke +3. Stimme `wurm`, Beute Harzklumpen.
+- **Licht:** Randlicht **moosgrün** (`wald_tiefe`): das kalte Licht aus der Tiefe, aus der er heraufkommt; die Harzhöhle hat sonst nur Bernstein. Inneres Licht: der Harzklumpen mit den Augen, Harz in einzelnen Rindenrissen.
+- **biom-test (20 Seeds):** Wurzelstock 16/17 (94 %), Kronengänger 18/19 (95 %). Der Wald-Akt bleibt für den Autospieler leicht; der Kronengänger nimmt im Mittel 13 Leben je Kampf (Wurzelstock 15), auf das Ziel 60–80 % käme er nur mit Werten weit über dem ersten Wächter.
+
+| Bild | S | L | P | K | B | Sp | Gesamt | Begründung |
+|---|---|---|---|---|---|---|---|---|
+| Der Kronengänger (`kronengaenger`) | 4 | 4 | 4 | 4 | 4 | 4 | **4** | Stamm auf der Laubkuppel mit Wurzelkranz oben ist im Spiel neu und liest sich als verkehrter Baum; die Äste über der Kuppel verhindern die Wolke. Schwächen: Das Steinlaub wirkt eher wie Schuppen, der Stamm ist eine große, gleichförmige Fläche, das Gehen sieht man nur am Greifast. Mehrfach überarbeitet (Spinne, dann Kuppel ohne Äste, dann diese Form). |
+| Im Spiel (Wurzelgewölbe) | | | | | | 4 | **4** | Das grüne Randlicht steht vor dem Bernstein der Szene; der Harzklumpen ist der hellste Punkt in der Mitte. |
+
+Bilder: [Spiel](../bilder/Zugabe/waechter2/wald-kronengaenger.png), [Kontaktbogen](../bilder/Zugabe/waechter2/bogen-a3.png).

diff --git a/docs/auftrag-2/biome/station.md b/docs/auftrag-2/biome/station.md
@@ -182,3 +182,20 @@ Nichts unter 4.
 - Variante 1 ist hinter den Köpfen unruhiger als die anderen.
 - `fremdheit` verändert die Kampfszenen nur wenig (das Schild wird länger); die Wächter-Szene reagiert auf die Boss-Phase.
 - Die Störkarten „Gelocht“ und „Kachel“ zeigen das allgemeine Knochen-Bild (Vorschlag 1).
+
+## Zweiter Wächter: Die Menge (`menge`)
+
+Zugabe. Eingetragen als `biom.waechter_alt` in `prototype/data/biome/station.json`; der Seed wählt je Run zwischen dem Zug, der einfährt, und der Menge, die Szene am Tunnelmund bleibt dieselbe. Sprite `tools/sprites/gegner/menge.js`, Zonenpalette der Station (das rosa Randlicht hat die kalte Szene schon nicht).
+
+- **Idee:** Alle, die zur Eröffnung gekommen sind: Herren mit Zylinder und Melone, Damen mit Glockenhut, ein Schirm, der Pressefotograf mit der Blitzpfanne hoch über den Köpfen, vorn einer mit der großen Schere für das Band. **Das falsche Detail:** Das Band ist nie durchgeschnitten worden, und sie stehen so dicht, dass sie ein Leib geworden sind; alle sehen zum Tunnel, mit dem Rücken zu dir. Nur einer in der Mitte hat sich umgedreht. **Silhouette:** ein breiter Hügel aus Hüten und Schultern auf vielen Beinen, davor quer das Band, nach oben drei Spitzen: die Schere links, der Schirm, rechts der Arm mit der Blitzpfanne. **Proben:** die Menge ohne die erhobenen Arme (schwarz ein Hügel mit Buckeln, nah an Kachelleger und Salzmann), genommen: mit Schere, Schirm und Blitz.
+- **Anders als der Zug:** Der Zug kündigt einen großen Schlag an (`ansage`), schließt die Türen (`unverw`) und ruft Wartende. Die Menge **drängt**: Kniff `teurer` (jeden Zug kostet eine Handkarte 1 mehr), viele kleine Treffer (4 × 7, 6 × 5), Besonderheit `schwach_wechsel` Licht ↔ Blut (sie dreht sich mit dem Blitz: mal Gesichter, mal Rücken). Man kämpft gegen Gedränge, nicht gegen einen Schlag.
+- **Werte:** 124 Leben, Schwachstelle zu Beginn **Licht**, Muster 4 × 7, Block 14, 24, 6 × 5, Stärke +3. Stimme `glockenmutter`, Beute Bahnsteigkarte.
+- **Licht:** Randlicht rosa-rot wie das Haltesignal. Innere Lichter: die Augen des Umgedrehten (mint), die glimmende Blitzpfanne (beim Angriff zündet sie), Messingknöpfe; das Band in Emailblau.
+- **biom-test (20 Seeds):** Zug 14/19 (74 %), Menge 15/18 (83 %); die Menge gewinnt dreimal (Zug zweimal), im Mittel 25 Leben je Kampf (Zug 23).
+
+| Bild | S | L | P | K | B | Sp | Gesamt | Begründung |
+|---|---|---|---|---|---|---|---|---|
+| Die Menge (`menge`) | 5 | 4 | 4 | 5 | 5 | 5 | **4** | Hüte, Schere, Schirm und Blitzpfanne über dem Band lesen sich sofort als Eröffnungsgesellschaft, das eine Gesicht in der Mitte ist das falsche Detail. Schwächen: Die Mäntel unten sind eine große dunkle Fläche (Band und Beine gliedern sie), die Köpfe der hinteren Reihe sind klein. |
+| Im Spiel (Tunnelmund) | | | | | | 5 | **4** | Steht im hellen Tunnelbogen; die erhobenen Arme ragen in das Licht. |
+
+Bilder: [Spiel](../bilder/Zugabe/waechter2/station-menge.png), [Kontaktbogen](../bilder/Zugabe/waechter2/bogen-a3.png).
